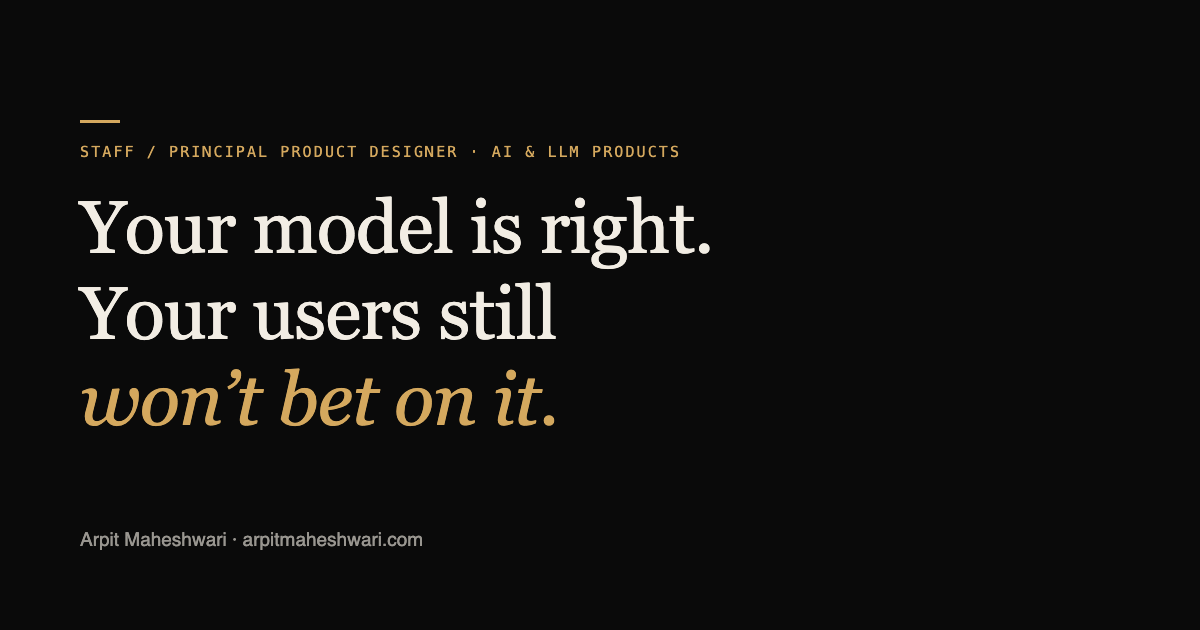
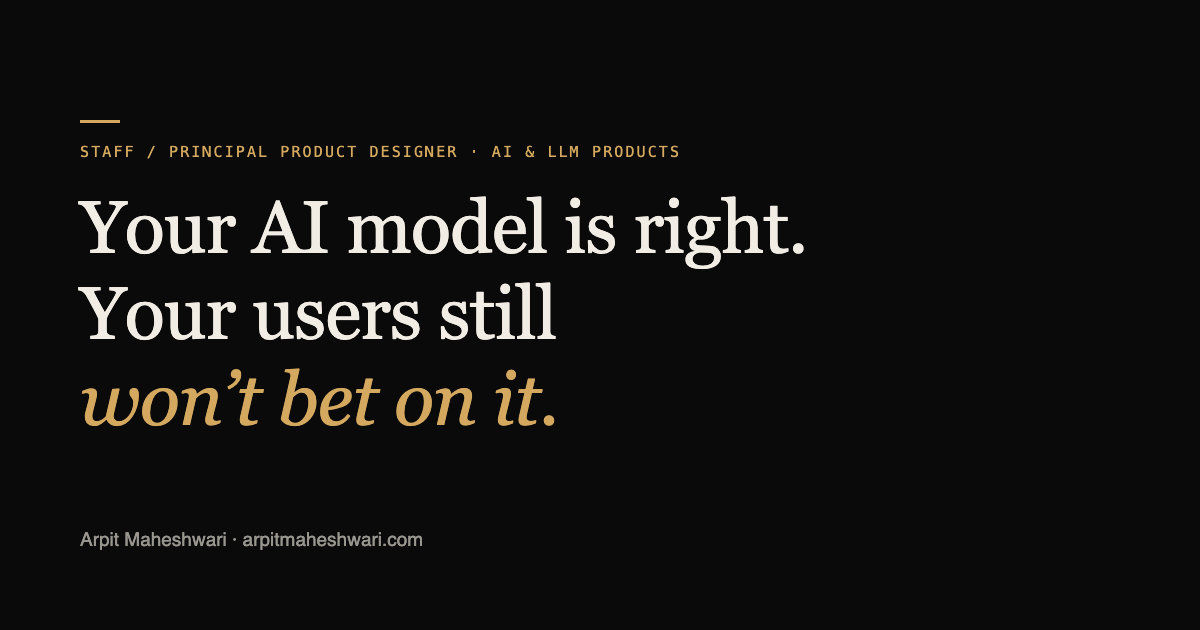
[scan] the biggest thing on screen was a bare numeral; now it is always a claim
"I still can't confidently scan it in a scroll." That needed an instrument this
repo did not have, so I built one: step down the page half a viewport at a time
and record the LARGEST piece of text on screen, because that is what a scanning
eye actually reads. Nineteen positions at 1440x900.

WHAT IT FOUND. Eight of nineteen positions had a bare "01" / "02" / "03" / "04"
as the biggest thing in view. The act numeral was clamp(56px,7vw,88px) — 88px
rendered, TWICE every section heading (42px) and larger than the h1's own 83px.
The scan path was a list of numbers, not a list of claims: the eye was pulled off
"By Friday of week one I've read your evals..." onto a marker that says nothing.
A type-hierarchy inversion, and the loudest voice on the page belonged to
decoration.

THE PRINCIPLE: in a scroll, the largest thing on screen must be the CLAIM, not
the marker. Which also means the marker must be smaller than the thing it marks.
  numeral 88px -> 22px  ·  act title 12px mono UC -> 26px serif  ·  section h2 42px
The act title changed face because an act title IS a claim — "The method — the
contract, then the workflow" — and at 12px uppercase it was an eyebrow, invisible
to a scanner. It now sits in the scan path and still yields to the section h2
inside the act.
Iterated twice, measured each time: at 34px the numeral still beat the 26px
title, so one position still read "03".

RESULT: zero bare numerals. Every one of the nineteen positions now reads a
[…]

Changed region(s): [[0.2158, 0.3016, 0.6783, 0.4222]]

diff --git a/lab/teardown.html b/lab/teardown.html
@@ -27,7 +27,7 @@
 <link rel="preload" as="font" type="font/woff2" crossorigin href="/assets/fonts-web/source-serif-4-normal-300_600.woff2">
 <link rel="stylesheet" href="/fonts.css?v=f0312437">
 <link rel="stylesheet" href="../styles.css?v=7780584b">
-<link rel="stylesheet" href="../ember.css?v=4b5f938f">
+<link rel="stylesheet" href="../ember.css?v=b6ba48ee">
 
 <script defer src="../analytics.js?v=4f9aa0a0"></script>
 </head>
@@ -78,7 +78,7 @@
           <thead role="rowgroup"><tr role="row"><th scope="col" role="columnheader">What</th><th scope="col" role="columnheader">Measured</th><th scope="col" role="columnheader">How</th></tr></thead>
           <tbody role="rowgroup">
             <tr role="row"><td role="cell">Hand-written HTML pages</td><td role="cell" data-label="Measured"><b>41</b></td><td role="cell" data-label="How"><span class="td-inline">find . -name "*.html"</span>, excluding the book, print sources and the two OG-card templates &mdash; those render to PNG and no visitor can reach them. This read 43 until 2026-09-03, when the templates were still counted as pages.</td></tr>
-            <tr role="row"><td role="cell">Stylesheet, entire site</td><td role="cell" data-label="Measured"><b>535.9 KB</b> on disk &middot; <b>116.8 KB</b> gzipped</td><td role="cell" data-label="How"><span class="td-inline">cat fonts.css styles.css ember.css | wc -c</span> &rarr; 548,796 bytes, unminified, across the three sheets every content page links; gzipped they are 119,581 bytes over the wire. Counted all three after 2026-09-03, when this row measured styles.css alone and still called it &ldquo;entire site&rdquo; &mdash; it understated the CSS by 82%, and never moved when ember.css changed. book/book.css (71,850 bytes) is excluded: no classic page loads it. Unminified because there is no build step &mdash; gzip is what a reader pays, the disk number is what the choice costs me. The rendered-coverage instrument that earlier passes waited for now exists (tools/css-coverage.py): a rule is called dead only when Chrome&rsquo;s rule-usage tracking, a DOM census of every page, and a JS-token sweep all agree &mdash; and the instrument is calibrated with a planted dead rule each run. Its first pass removed 115 rules from the ember sheet with zero geometry change on the sampled pages. This classic sheet keeps its dead weight by design: the coverage harness can only exercise the active theme, so deleting here would be a guess again.</td></tr>
+            <tr role="row"><td role="cell">Stylesheet, entire site</td><td role="cell" data-label="Measured"><b>537.9 KB</b> on disk &middot; <b>117.6 KB</b> gzipped</td><td role="cell" data-label="How"><span class="td-inline">cat fonts.css styles.css ember.css | wc -c</span> &rarr; 550,856 bytes, unminified, across the three sheets every content page links; gzipped they are 120,427 bytes over the wire. Counted all three after 2026-09-03, when this row measured styles.css alone and still called it &ldquo;entire site&rdquo; &mdash; it understated the CSS by 82%, and never moved when ember.css changed. book/book.css (71,850 bytes) is excluded: no classic page loads it. Unminified because there is no build step &mdash; gzip is what a reader pays, the disk number is what the choice costs me. The rendered-coverage instrument that earlier passes waited for now exists (tools/css-coverage.py): a rule is called dead only when Chrome&rsquo;s rule-usage tracking, a DOM census of every page, and a JS-token sweep all agree &mdash; and the instrument is calibrated with a planted dead rule each run. Its first pass removed 115 rules from the ember sheet with zero geometry change on the sampled pages. This classic sheet keeps its dead weight by design: the coverage harness can only exercise the active theme, so deleting here would be a guess again.</td></tr>
             <tr role="row"><td role="cell">Renders without JavaScript</td><td role="cell" data-label="Measured"><b>100%</b> on the reading pages &middot; <b>68%</b> on /fit/</td><td role="cell" data-label="How">Scripts disabled via CDP and <span class="td-inline">&lt;main&gt;</span> word counts diffed across nine pages on 2026-09-03. Identical with and without: the homepage (2,782 words), the AdTech case (3,417), /patterns/, /writing/, /screen/ and /resources/. Three are not. /fit/ keeps 305 of 447 &mdash; the matcher is client-side, and that page says so in its own copy. /book/ keeps 4,483 of 4,540 and /lab/ 1,114 of 1,145, both losing only scroll-revealed labels. This row read &ldquo;100% of the copy&rdquo; until 2026-09-03, generalised from two pages to the whole site. A <span class="td-inline">noscript</span> fallback restores the scroll-reveal elements. Increasingly relevant: in a 72-portfolio field review, nine sites served an empty shell to any non-browser reader &mdash; this one reads complete to a text-only or AI screener.</td></tr>
             <tr role="row"><td role="cell">Runtime dependencies, classic site</td><td role="cell" data-label="Measured"><b>0</b></td><td role="cell" data-label="How">No root <span class="td-inline">package.json</span>, no <span class="td-inline">node_modules</span>, no bundler config</td></tr>
             <tr role="row"><td role="cell">Third-party domains serving code</td><td role="cell" data-label="Measured"><b>2</b></td><td role="cell" data-label="How">Google Analytics and Microsoft Clarity (heatmaps, added 2026-08-15; honours Do-Not-Track). Attention measurement (scroll depth, section dwell) is first-party: <span class="td-inline">attention.js</span>, 159 lines, no network of its own. Both load async and gate nothing on first paint. Google Fonts left on 2026-08-14 when the nine font files then in use moved to this origin; the dyslexia typeface added two more on 2026-08-28.</td></tr>

diff --git a/index.html b/index.html
@@ -33,7 +33,7 @@
 <meta property="og:description" content="AI products don't fail at the model — they fail in the half-second before a person acts on it. Arpit Maheshwari has designed that half-second for sixteen years. Open to founding-designer roles at AI product companies.">
 <meta property="og:url" content="https://arpitmaheshwari.com/">
 <meta property="og:image" content="https://arpitmaheshwari.com/assets/og-images/home-og.png">
-<meta property="og:image:alt" content="Your model is right. Your users still won't bet on it. — Arpit Maheshwari, product & design leader for AI products">
+<meta property="og:image:alt" content="Your AI model is right. Your users still won't bet on it. — Arpit Maheshwari, product & design leader for AI products">
 <meta property="og:image:width" content="1200">
 <meta property="og:image:height" content="630">
 <meta property="og:site_name" content="Arpit Maheshwari Portfolio">
@@ -42,7 +42,7 @@
 <meta name="twitter:title" content="Staff / Principal Product Designer, AI Products — Arpit Maheshwari">
 <meta name="twitter:description" content="AI products don't fail at the model — they fail in the half-second before a person acts on it. Arpit Maheshwari has designed that half-second for sixteen years. Open to founding-designer roles at AI product companies.">
 <meta name="twitter:image" content="https://arpitmaheshwari.com/assets/og-images/home-og.png">
-<meta name="twitter:image:alt" content="Your model is right. Your users still won't bet on it. — Arpit Maheshwari, product & design leader for AI products">
+<meta name="twitter:image:alt" content="Your AI model is right. Your users still won't bet on it. — Arpit Maheshwari, product & design leader for AI products">
 <meta name="twitter:site" content="@arp_maheshwari">
 <meta name="twitter:creator" content="@arp_maheshwari">
 <link rel="icon" type="image/x-icon" href="./assets/favicon.ico">
@@ -139,7 +139,7 @@
 </script>
 <script defer src="./analytics.js?v=4f9aa0a0"></script>
 <link rel="stylesheet" href="./styles.css?v=7780584b">
-<link rel="stylesheet" href="./ember.css?v=4b5f938f">
+<link rel="stylesheet" href="./ember.css?v=b6ba48ee">
 </head>
 <body class="p-home">
 <a href="#main" class="skip-link">Skip to content</a>
@@ -186,7 +186,7 @@
   <div class="wrap in hero-split">
     <div class="hero-copy">
       <p class="k role-line">Staff / Principal Product Designer · AI &amp; LLM Products · fully remote (GMT+5:30)</p>
-      <h1 id="h-hero">Your model is right. Your users still <span class="grad">won’t bet on it.</span></h1>
+      <h1 id="h-hero">Your AI model is right. Your users still <span class="grad">won’t bet on it.</span></h1>
       <p class="sub">Sixteen years, five industries, one problem &mdash; and the receipts for all of it.</p>
       <div class="ctas">
         <a class="pill pill-hot" href="#contact" data-cta="send-role" data-location="hero">Send me the role →</a>
@@ -218,7 +218,6 @@
     <header class="chap chap-ember">
       <span class="chap-n" aria-hidden="true">01</span>
       <span class="chap-t">The outcomes — four industries, baselines included</span>
-      <span class="chap-rule" aria-hidden="true"></span>
     </header>
     <h2 id="h-receipts">What changed when they trusted the machine.</h2>
     <span class="hand" aria-hidden="true">numbers are easy — the receipts are hard. click one ↓</span>
@@ -316,7 +315,6 @@
       <header class="chap chap-violet">
       <span class="chap-n" aria-hidden="true">02</span>
       <span class="chap-t">The person — who you&rsquo;d be hiring</span>
-      <span class="chap-rule" aria-hidden="true"></span>
       <p class="chap-i">Numbers survive scrutiny; a person ships them. Who you&rsquo;d actually be getting, and how I run a room.</p>
     </header>
       <h2 id="h-who">By Friday of week one I’ve read your evals and sat in on your customer calls; by launch, the interface I drew is the code I shipped.</h2>
@@ -364,7 +362,6 @@
       <header class="chap chap-amber">
       <span class="chap-n" aria-hidden="true">03</span>
       <span class="chap-t">The method &mdash; the contract, then the workflow</span>
-      <span class="chap-rule" aria-hidden="true"></span>
     </header>
       <h2 id="h-contract">A language model has no edges. So I draw them.</h2>
       <p>Ask one anything and it answers — fluently, in or out of its depth. <b class="skim">A user’s trust does not erode slowly; it dies in a single confident wrong answer.</b> So before launch I write a capability contract — a one-pager the whole team signs — and it goes in the interface, at the point of use.</p>
@@ -411,7 +408,6 @@
     <header class="chap chap-rose">
       <span class="chap-n" aria-hidden="true">04</span>
       <span class="chap-t">Before you decide — five people, five vantage points</span>
-      <span class="chap-rule" aria-hidden="true"></span>
       <p class="chap-i">A client CTO and the tech lead who sat beside him for five years, an engineer, a manager, a designer — then three essays, and one form.</p>
     </header>
     <h2 id="h-voices">Don&rsquo;t take my word for any of this.</h2>

diff --git a/ember.css b/ember.css
@@ -2348,19 +2348,47 @@ html[data-theme="ember"] body.p-home .whoband .wl-lead p{max-width:none;margin-b
    numeral size/color/leading are set here, never inherited.
    Accent per act follows the site cycle: ember → violet → amber → rose.
    ============================================================ */
-html[data-theme="ember"] .chap{display:grid;grid-template-columns:auto auto 1fr;column-gap:20px;row-gap:12px;align-items:center;margin:0 0 40px}
-html[data-theme="ember"] .chap-n{font-family:var(--serif);font-weight:300;font-size:clamp(56px,7vw,88px);line-height:1;letter-spacing:-0.02em}
-html[data-theme="ember"] .chap-t{font-family:var(--mono);font-size:12px;letter-spacing:0.16em;text-transform:uppercase;color:var(--ink-muted);font-weight:500}
-html[data-theme="ember"] .chap-rule{height:1px;background:var(--border);min-width:48px}
+/* two columns now, not three: the decorative .chap-rule came out with the act
+   title's resize on 2026-09-08. It was a 48px dash drawn to sit beside a 12px
+   uppercase eyebrow; against a wrapping 26px serif line it stranded at the first
+   line's height, and the act boundary already carries a full-bleed hairline
+   (main > section:has(.chap)) — so it was a second, smaller, orphaned rule
+   saying the same thing. align-items:start, because a one-line numeral beside a
+   two-line title centres the numeral against the middle of the block. */
+html[data-theme="ember"] .chap{display:grid;grid-template-columns:auto 1fr;column-gap:16px;row-gap:12px;align-items:start;margin:0 0 40px}
+/* THE ACT NUMERAL WAS THE LOUDEST THING ON THE PAGE — 2026-09-08.
+   Arpit: "I still can't confidently scan it in a scroll." Instrument built for
+   it: step down the page half a viewport at a time and record the LARGEST piece
+   of text on screen, because that is what a scanning eye actually reads.
+   Result at 1440x900: EIGHT of nineteen scan positions had a bare "01" / "02" /
+   "03" / "04" as the biggest thing in view. At clamp(56px,7vw,88px) the numeral
+   rendered 88px — TWICE every section heading (42px) and larger than the h1's
+   own 83px. So the scan path was a list of numbers, not a list of claims, and
+   the eye was pulled off "By Friday of week one I've read your evals..." onto a
+   marker that says nothing.
+   The principle: in a scroll, the largest thing on screen must be the CLAIM, not
+   the marker. The numeral stays an act marker and stops out-shouting the
+   heading it introduces — capped below the 42px section h2. */
+html[data-theme="ember"] .chap-n{font-family:var(--serif);font-weight:300;font-size:clamp(18px,1.7vw,22px);line-height:1;letter-spacing:-0.02em}
+/* AND THE ACT'S TITLE IS THE ACT'S CLAIM, so it has to be readable at scan
+   scale. With the numeral shrunk, one scan position was still left reading a bare
+   "03": the act opener is on screen there but the section's own h2 is not yet, and
+   the title beside the numeral was 12px mono uppercase — an eyebrow, invisible to
+   a scanning eye. Serif at 26px puts the four act titles ("The person — who you'd
+   be hiring", "The method — the contract, then the work") into the scan path,
+   while staying under the 42px section h2 so the h2 still leads inside the act.
+   This changes the .chap component the design system documents as
+   "serif 300 numeral + mono 12px UC title"; DESIGN-SYSTEM-EMBER.md is updated to
+   match, because a rule I wrote down is not a fact I verified. */
+html[data-theme="ember"] .chap-t{font-family:var(--serif);font-size:clamp(20px,2vw,26px);font-weight:300;letter-spacing:-0.01em;line-height:1.25;text-transform:none;color:var(--ink)}
 html[data-theme="ember"] .chap-i{grid-column:1/-1;margin:0;font-family:var(--sans);font-size:16px;line-height:1.55;color:var(--ink-muted);max-width:600px}
 html[data-theme="ember"] .chap-ember .chap-n{color:#FF8A5C}
 html[data-theme="ember"] .chap-violet .chap-n{color:var(--violet)}
 html[data-theme="ember"] .chap-amber .chap-n{color:var(--amber)}
 html[data-theme="ember"] .chap-rose .chap-n{color:var(--rose)}
 @media (max-width:768px){
-  html[data-theme="ember"] .chap{grid-template-columns:auto 1fr;margin-bottom:32px}
-  html[data-theme="ember"] .chap-n{font-size:48px}
-  html[data-theme="ember"] .chap-rule{display:none}
+  html[data-theme="ember"] .chap{margin-bottom:32px}
+  html[data-theme="ember"] .chap-n{font-size:18px}
   html[data-theme="ember"] .chap-t{line-height:1.5}
 }
 
@@ -2536,7 +2564,6 @@ html[data-theme="ember"] body.p-home .contract{background:var(--cream);color:var
   --border:rgba(34,28,16,.2);--line:rgba(34,28,16,.2);
   --amber:#7E5A14;--violet:#6B3A99;--ember:#A93A24;--card:#E6DCC3;--bg-card:#E6DCC3;
   --link:#6B3A99;--link-hover:#57307D}
-html[data-theme="ember"] body.p-home .contract .chap-rule{background:rgba(34,28,16,.2)}
 /* the live demo stays a dark instrument ON the paper — it re-declares the dark
    set in full, so the section remap cannot reach inside it (lesson 4/11) */
 html[data-theme="ember"] body.p-home .contract .ccd{background:#241830;border-color:rgba(245,237,230,.14);

diff --git a/lab/index.html b/lab/index.html
@@ -28,7 +28,7 @@
 <link rel="stylesheet" href="/fonts.css?v=f0312437">
 <noscript></noscript>
 <link rel="stylesheet" href="../styles.css?v=7780584b">
-<link rel="stylesheet" href="../ember.css?v=4b5f938f">
+<link rel="stylesheet" href="../ember.css?v=b6ba48ee">
 
 <script defer src="../analytics.js?v=4f9aa0a0"></script>
 </head>
@@ -81,7 +81,7 @@
         <a class="lab-card" href="./teardown.html" data-cta="lab-card" data-location="lab-index">
           <p class="lab-num">03</p>
           <h3>This site, torn down</h3>
-          <p><strong>A site that argues for evidence must be willing to be inspected.</strong> How the thing you are reading is built, measured rather than described: no build step, a 535.9&nbsp;KB stylesheet, two third-party services across four domains, one enforced type scale — and an honest list of the gaps, including the one this page caught.</p>
+          <p><strong>A site that argues for evidence must be willing to be inspected.</strong> How the thing you are reading is built, measured rather than described: no build step, a 537.9&nbsp;KB stylesheet, two third-party services across four domains, one enforced type scale — and an honest list of the gaps, including the one this page caught.</p>
           <div class="lab-tags"><span>Measured</span><span>Commands shown</span><span>Gaps included</span></div>
           <span class="lab-go">See the receipts →</span>
         </a>

diff --git a/book/portfolio.js b/book/portfolio.js
@@ -1864,7 +1864,7 @@ function buildBook(ctx) {
       }
     }, "Building in AI?"), /*#__PURE__*/React.createElement("p", {
       className: "bk-body"
-    }, "Your model is right. Your users still won’t bet on it. That half-second of doubt is the only thing I design. Staff / Principal or founding product-design lead for AI products — open to a hands-on director seat. Available."), /*#__PURE__*/React.createElement(React.Fragment, null), /*#__PURE__*/React.createElement("div", {
+    }, "Your AI model is right. Your users still won’t bet on it. That half-second of doubt is the only thing I design. Staff / Principal or founding product-design lead for AI products — open to a hands-on director seat. Available."), /*#__PURE__*/React.createElement(React.Fragment, null), /*#__PURE__*/React.createElement("div", {
       className: "bk-social",
       style: {
         marginTop: 24

diff --git a/book/index.html b/book/index.html
@@ -472,7 +472,7 @@
 </ul></section>
 <section><h2>Contact</h2>
 <h3>One seat. Full-time. Yours to offer.</h3>
-<p>Your model is right. Your users still won&rsquo;t bet on it. That half-second of doubt is the only thing I design. I&rsquo;m choosing one role: staff / principal designer or founding product-design lead at an AI product company — open to a hands-on director seat. Available — 4 weeks&rsquo; notice.</p>
+<p>Your AI model is right. Your users still won&rsquo;t bet on it. That half-second of doubt is the only thing I design. I&rsquo;m choosing one role: staff / principal designer or founding product-design lead at an AI product company — open to a hands-on director seat. Available — 4 weeks&rsquo; notice.</p>
 <ul class='nsb-status'>
 <li>Available · 4 weeks’ notice</li>
 <li>Staff / Principal or Founding lead</li>

diff --git a/lab/hitl.html b/lab/hitl.html
@@ -10,7 +10,7 @@
      linked externally, so it forwards rather than 404s. Styled like the sibling forwarding stub
      (2026-09-02): a reader whose browser blocks meta-refresh should not meet unstyled text. -->
 <link rel="stylesheet" href="../styles.css?v=7780584b">
-<link rel="stylesheet" href="../ember.css?v=4b5f938f">
+<link rel="stylesheet" href="../ember.css?v=b6ba48ee">
 </head><body class="p-lab-fwd-stub"><p>Moved to <a href="./loop.html">loop.html</a>.</p>
 <script>location.replace('./loop.html');</script>
 </body></html>

diff --git a/case-studies/talon.html b/case-studies/talon.html
@@ -6,7 +6,7 @@
 <meta name="robots" content="noindex">
 <meta http-equiv="refresh" content="0; url=/case-studies/adtech.html">
 <link rel="stylesheet" href="../styles.css?v=7780584b">
-<link rel="stylesheet" href="../ember.css?v=4b5f938f">
+<link rel="stylesheet" href="../ember.css?v=b6ba48ee">
 <link rel="canonical" href="https://arpitmaheshwari.com/case-studies/adtech.html">
 <!-- redirect stub: the named case shipped AT the adtech.html URL (2026-08-14).
      Excluded from audits the same way lab/hitl.html is. -->

diff --git a/process/index.html b/process/index.html
@@ -21,7 +21,7 @@
 <link rel="icon" type="image/x-icon" href="../assets/favicon.ico">
 <link rel="stylesheet" href="../fonts.css?v=f0312437">
 <link rel="stylesheet" href="../styles.css?v=7780584b">
-<link rel="stylesheet" href="../ember.css?v=4b5f938f">
+<link rel="stylesheet" href="../ember.css?v=b6ba48ee">
 <meta property="og:image" content="https://arpitmaheshwari.com/assets/og-images/home-og.png">
 <meta property="og:image:width" content="1200">
 <meta property="og:image:height" content="630">

diff --git a/resources/intelligent-systems-glossary.html b/resources/intelligent-systems-glossary.html
@@ -16,7 +16,7 @@
 <link rel="stylesheet" href="/fonts.css?v=f0312437">
 <noscript></noscript>
   <link rel="stylesheet" href="../styles.css?v=7780584b">
-<link rel="stylesheet" href="../ember.css?v=4b5f938f">
+<link rel="stylesheet" href="../ember.css?v=b6ba48ee">
 <meta property="og:image" content="https://arpitmaheshwari.com/assets/og-images/intelligent-systems-glossary-og.png">
 <meta property="og:image:width" content="1200">
 <meta property="og:image:height" content="630">

diff --git a/case-studies/adtech-anonymous.html b/case-studies/adtech-anonymous.html
@@ -57,7 +57,7 @@
 <link rel="apple-touch-icon" href="../assets/favicon.png">
 <link rel="shortcut icon" href="../assets/favicon.ico">
 <link rel="stylesheet" href="../styles.css?v=7780584b">
-<link rel="stylesheet" href="../ember.css?v=4b5f938f">
+<link rel="stylesheet" href="../ember.css?v=b6ba48ee">
 
 <!-- Mockup-plate ink darkened 2026-08-01: #5C6470 -> #282B31 and the stage chip
      #C2410C -> #B63D0B. Measured from RENDERED pixels, these sat at 4.06-4.39:1 against a

diff --git a/resources/ai-design-checklist.html b/resources/ai-design-checklist.html
@@ -16,7 +16,7 @@
 <link rel="stylesheet" href="/fonts.css?v=f0312437">
 <noscript></noscript>
   <link rel="stylesheet" href="../styles.css?v=7780584b">
-<link rel="stylesheet" href="../ember.css?v=4b5f938f">
+<link rel="stylesheet" href="../ember.css?v=b6ba48ee">
 <meta property="og:image" content="https://arpitmaheshwari.com/assets/og-images/ai-design-checklist-og.png">
 <meta property="og:image:width" content="1200">
 <meta property="og:image:height" content="630">
